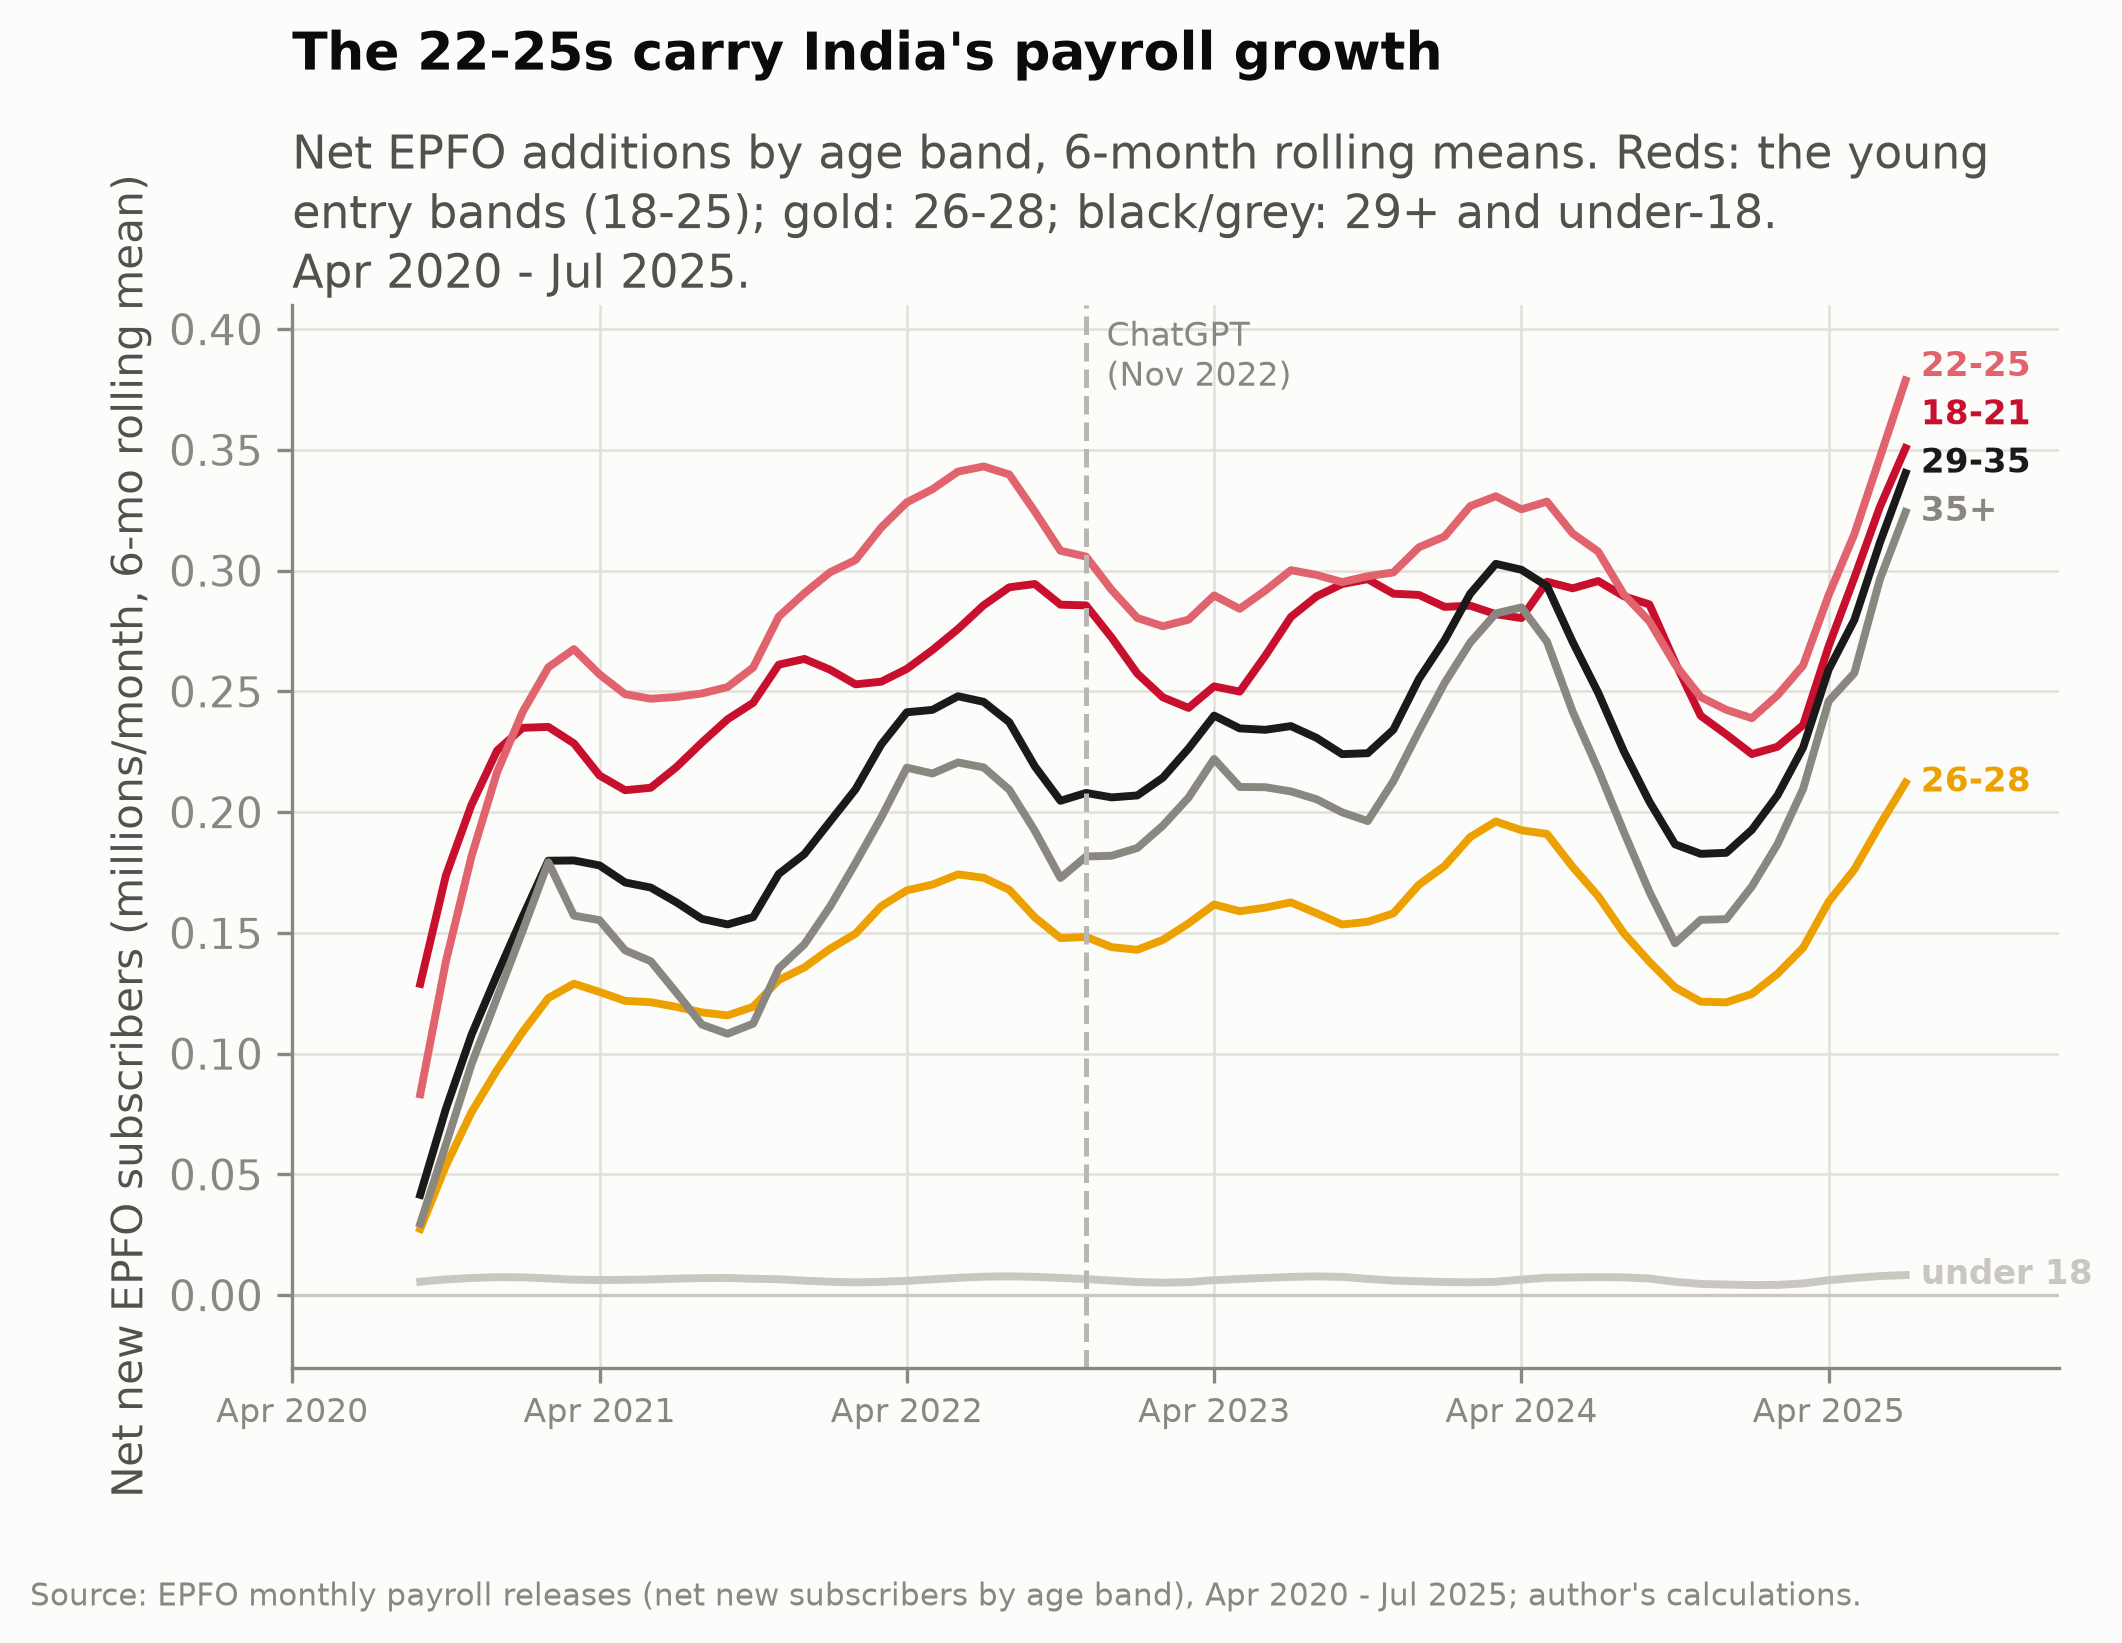
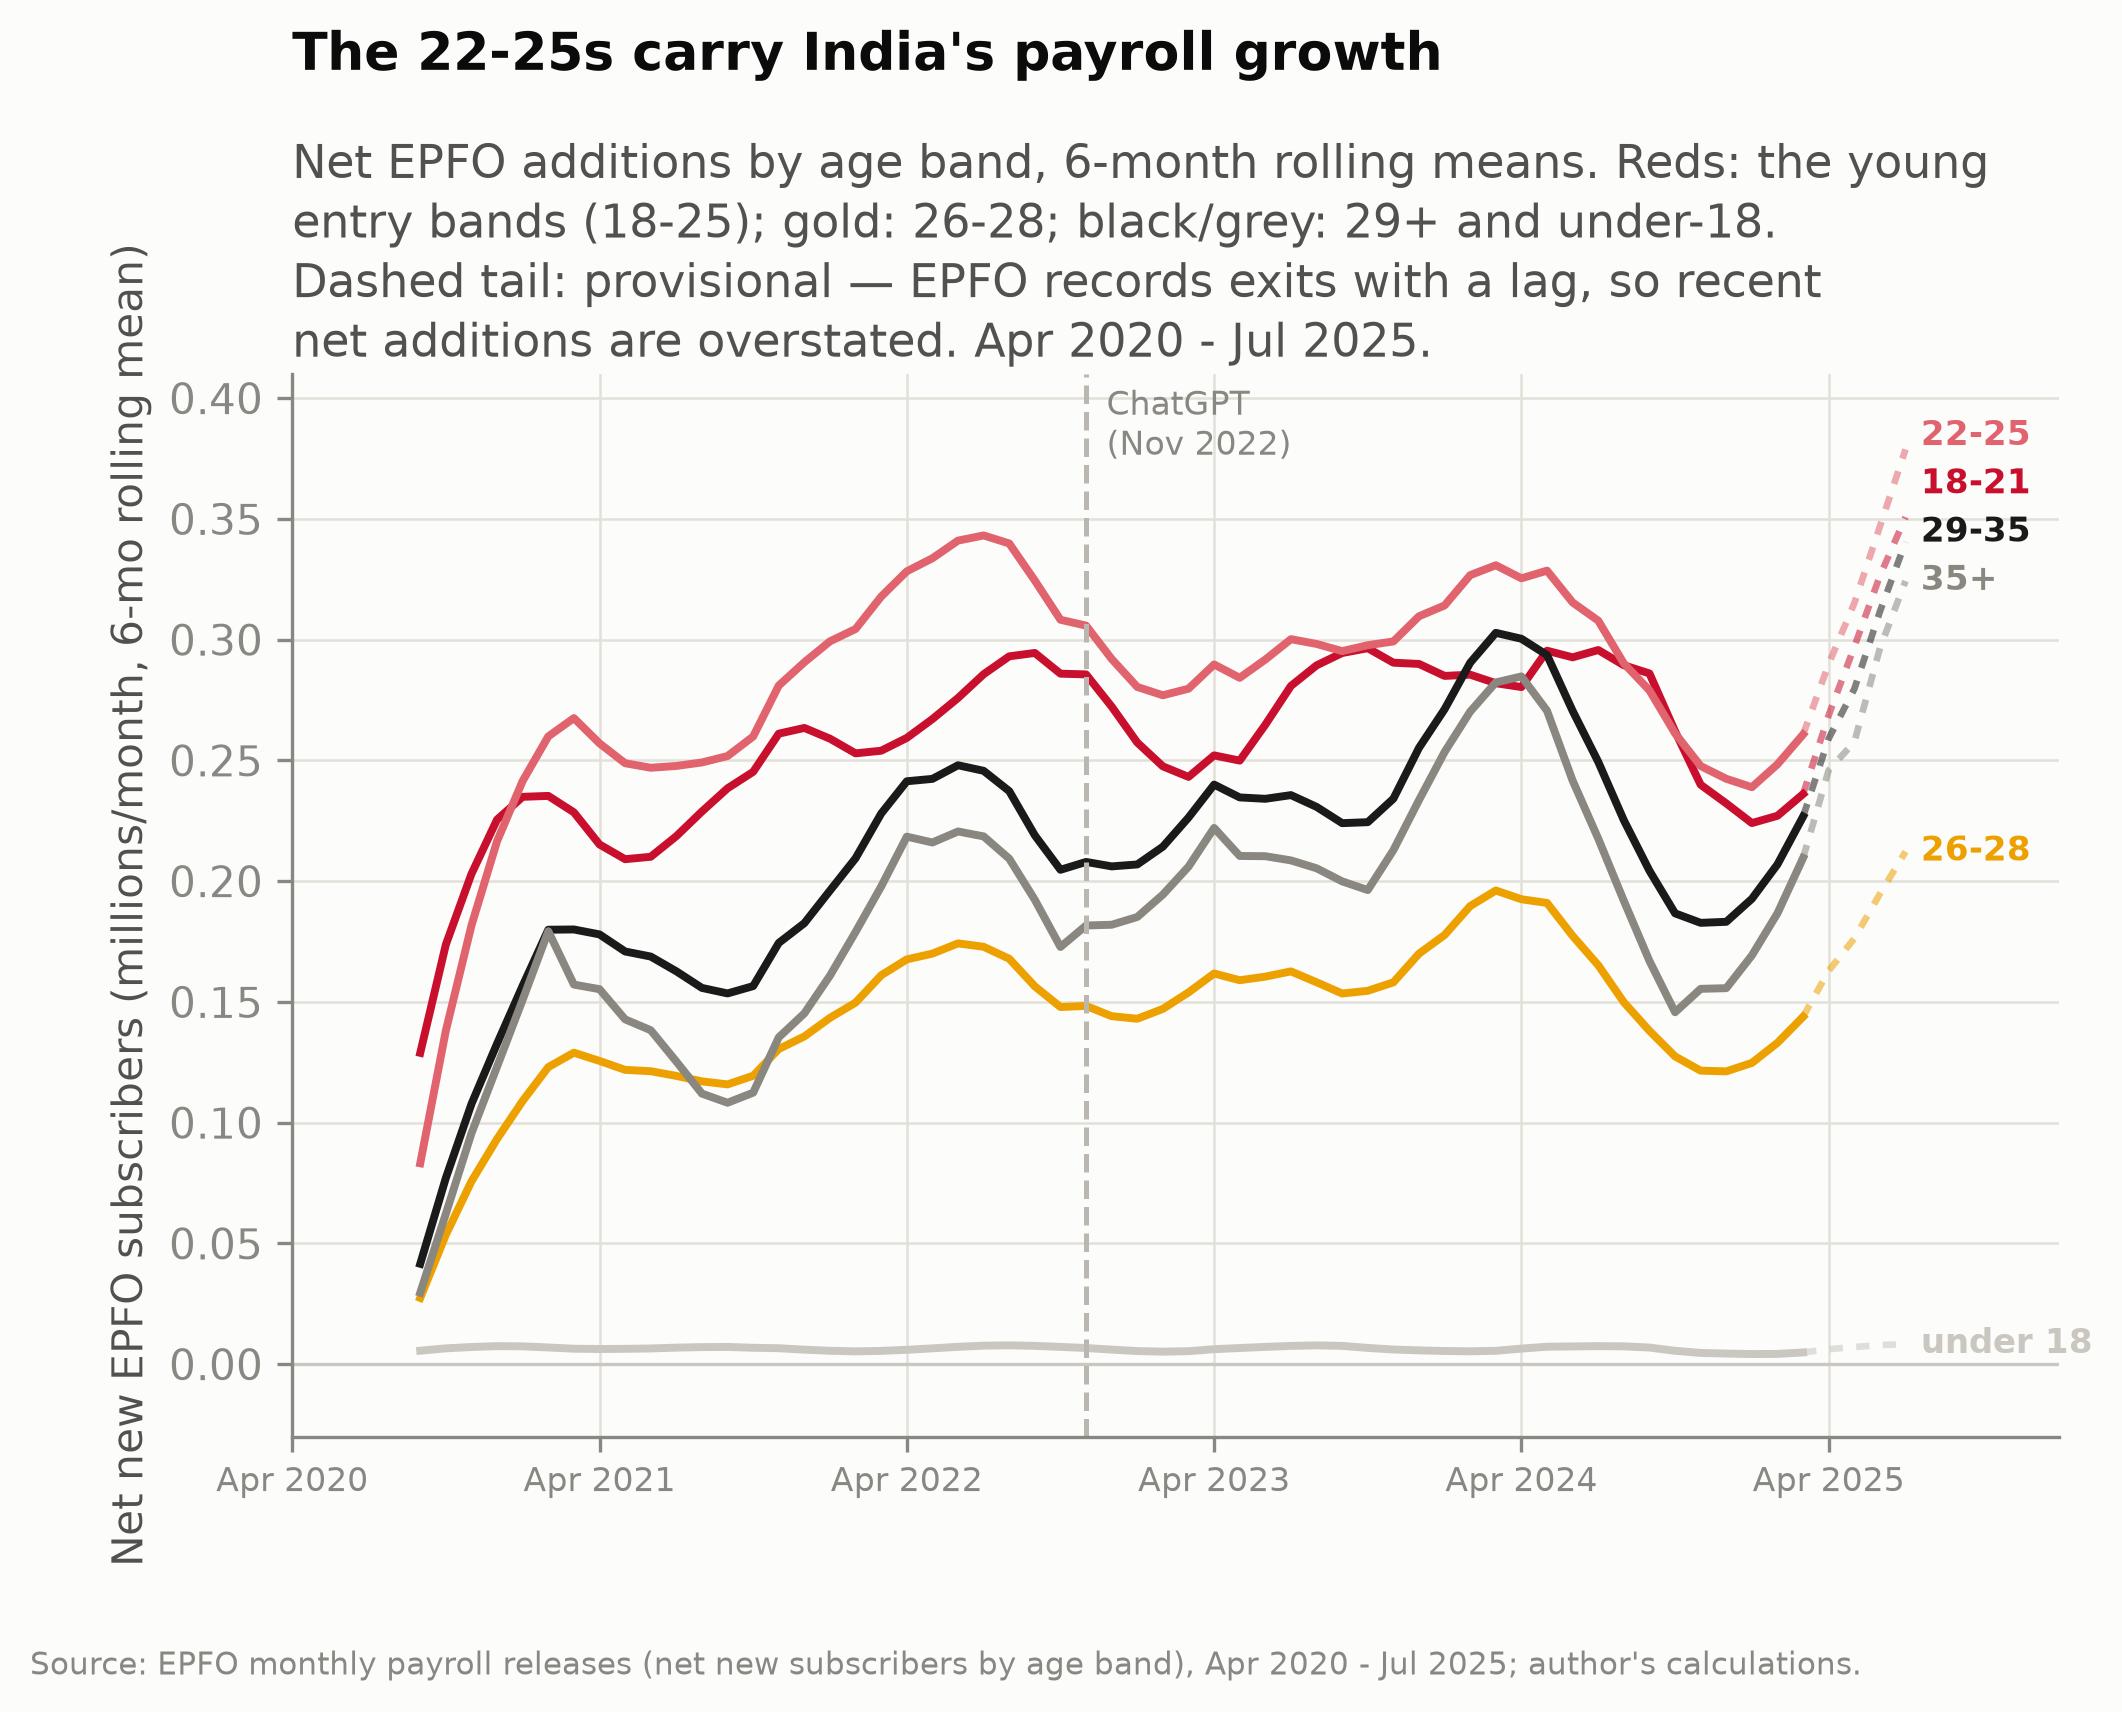
fix: EPFO trend — dashed provisional tail (exit-recording lag) + NOTES.md diagnosis

diff --git a/src/insights/insight_epfo_trend.py b/src/insights/insight_epfo_trend.py
@@ -29,6 +29,12 @@ def main() -> None:
     months = [m for m in months if m >= "2020-04"]
     x = list(range(len(months)))
 
+    # Exits reach EPFO with a claim-filing lag, so the freshest months understate
+    # ceased members and overstate net additions (documented in data/raw/epfo/NOTES.md).
+    # Rolling means touching those months are drawn dashed as provisional.
+    PROVISIONAL_FROM = "2025-03"
+    cut = months.index(PROVISIONAL_FROM)
+
     fig, ax = plt.subplots(figsize=(7.6, 4.6))
     ax.axhline(0, color="#c9c7c0", lw=0.8)
     prov_bits = []
@@ -38,7 +44,8 @@ def main() -> None:
              .filter(pl.col("data_month") >= "2020-04")
              .with_columns(pl.col("value").rolling_mean(6).alias("r6")))
         vals = [v / 1e6 if v is not None else None for v in s["r6"]]
-        ax.plot(x, vals, color=color, lw=1.9)
+        ax.plot(x[: cut + 1], vals[: cut + 1], color=color, lw=1.9)
+        ax.plot(x[cut:], vals[cut:], color=color, lw=1.6, ls=(0, (2, 2)), alpha=0.55)
         last = next(v for v in reversed(vals) if v is not None)
         ends.append((last, lab, color))
         prov_bits.append(f"{band}: last r6={last:.3f}M")
@@ -65,7 +72,8 @@ def main() -> None:
     head_sub(ax, "The 22-25s carry India's payroll growth\n"
                  "Net EPFO additions by age band, 6-month rolling means. Reds: the young\n"
                  "entry bands (18-25); gold: 26-28; black/grey: 29+ and under-18.\n"
-                 "Apr 2020 - Jul 2025.")
+                 "Dashed tail: provisional — EPFO records exits with a lag, so recent\n"
+                 "net additions are overstated. Apr 2020 - Jul 2025.")
     add_source(fig, DATASET)
     fig.savefig(OUT / "insight_epfo_young_trend.png", bbox_inches="tight")
     plt.close(fig)
@@ -74,7 +82,9 @@ def main() -> None:
     existing = prov.read_text() if prov.exists() else "# Substack chart provenance\n\n"
     existing += (f"### insight_epfo_young_trend ({date.today()})\n"
                  "6-mo rolling means, all bands; " + "; ".join(prov_bits)
-                 + f"\nSource: {DATASET}.\n")
+                 + f"\nDashed from {PROVISIONAL_FROM}: provisional (exit-recording lag "
+                 "overstates recent net additions; see data/raw/epfo/NOTES.md).\n"
+                 f"Source: {DATASET}.\n")
     prov.write_text(existing)
     print("trend chart written")
 

diff --git a/data/raw/epfo/NOTES.md b/data/raw/epfo/NOTES.md
@@ -58,3 +58,28 @@ EPFO-era releases head it "Transgender". The parser maps both to `transgender`.
 - FY-aggregate table typo in mid-2024–mid-2025 EPFO releases: the 2019-20 × 22-25 cell
   shows 1771707 (a copy of 18-21 × 2018-19); corrected again in epfo_September-2025.
   Irrelevant to the panel (FY rows are never parsed), noted for awareness.
+
+## Exit-recording lag inflates the freshest months' net additions (2026-09-01)
+
+Diagnosed while explaining the apparent mid-2025 "hiring surge" in the age-band trend
+chart. Net = new − ceased + rejoined, and **ceased members are recorded only when the
+exit claim/transfer is filed — months after the actual exit**. So the last ~2–4 data
+months of any release systematically understate exits and overstate net additions;
+later releases revise them down (consistent with the downward-revision pattern in the
+vintage caveat above).
+
+Evidence from our own panel (national totals):
+- Steady-state ceased ≈ 1.7–1.8M/month (2024-06…09, seasoned vintages).
+- 2025-06 ceased = 1.005M and 2025-07 ceased = 0.518M (2–3 months mature at the
+  epfo_2025-09 release) → net jumps to 1.91M / 2.10M.
+- 2025-04, five months mature in the same release, already shows ceased back at 1.45M.
+- Gross new subscribers stay flat (0.75–1.1M/month through 2024–25) — no real hiring
+  surge underlies the net spike, and the spike appears identically in every age band
+  (an artifact signature, not a cohort story).
+
+Handling: (a) trend charts draw rolling means that touch data months ≥ 2025-03 as a
+dashed "provisional" tail with a subtitle caveat; (b) event-study month FE absorb the
+aggregate artifact, but note in §6 limitations that vintage maturity could differ
+across industry heads in recent months; (c) prefer **new subscribers (gross joins)**
+for entry-rung visuals — that series does not depend on lagged exits. Do NOT
+"correct" the raw values; this is inherent to the source.

diff --git a/outputs/substack/provenance.md b/outputs/substack/provenance.md
@@ -156,3 +156,7 @@ Source: EPFO monthly payroll releases (net new subscribers by age band), Apr 202
 ### insight_epfo_young_trend (2026-09-01)
 6-mo rolling means, all bands; 18-21: last r6=0.351M; 22-25: last r6=0.379M; 26-28: last r6=0.212M; 29-35: last r6=0.340M; >35: last r6=0.324M; <18: last r6=0.008M
 Source: EPFO monthly payroll releases (net new subscribers by age band), Apr 2020 - Jul 2025.
+### insight_epfo_young_trend (2026-09-01)
+6-mo rolling means, all bands; 18-21: last r6=0.351M; 22-25: last r6=0.379M; 26-28: last r6=0.212M; 29-35: last r6=0.340M; >35: last r6=0.324M; <18: last r6=0.008M
+Dashed from 2025-03: provisional (exit-recording lag overstates recent net additions; see data/raw/epfo/NOTES.md).
+Source: EPFO monthly payroll releases (net new subscribers by age band), Apr 2020 - Jul 2025.
